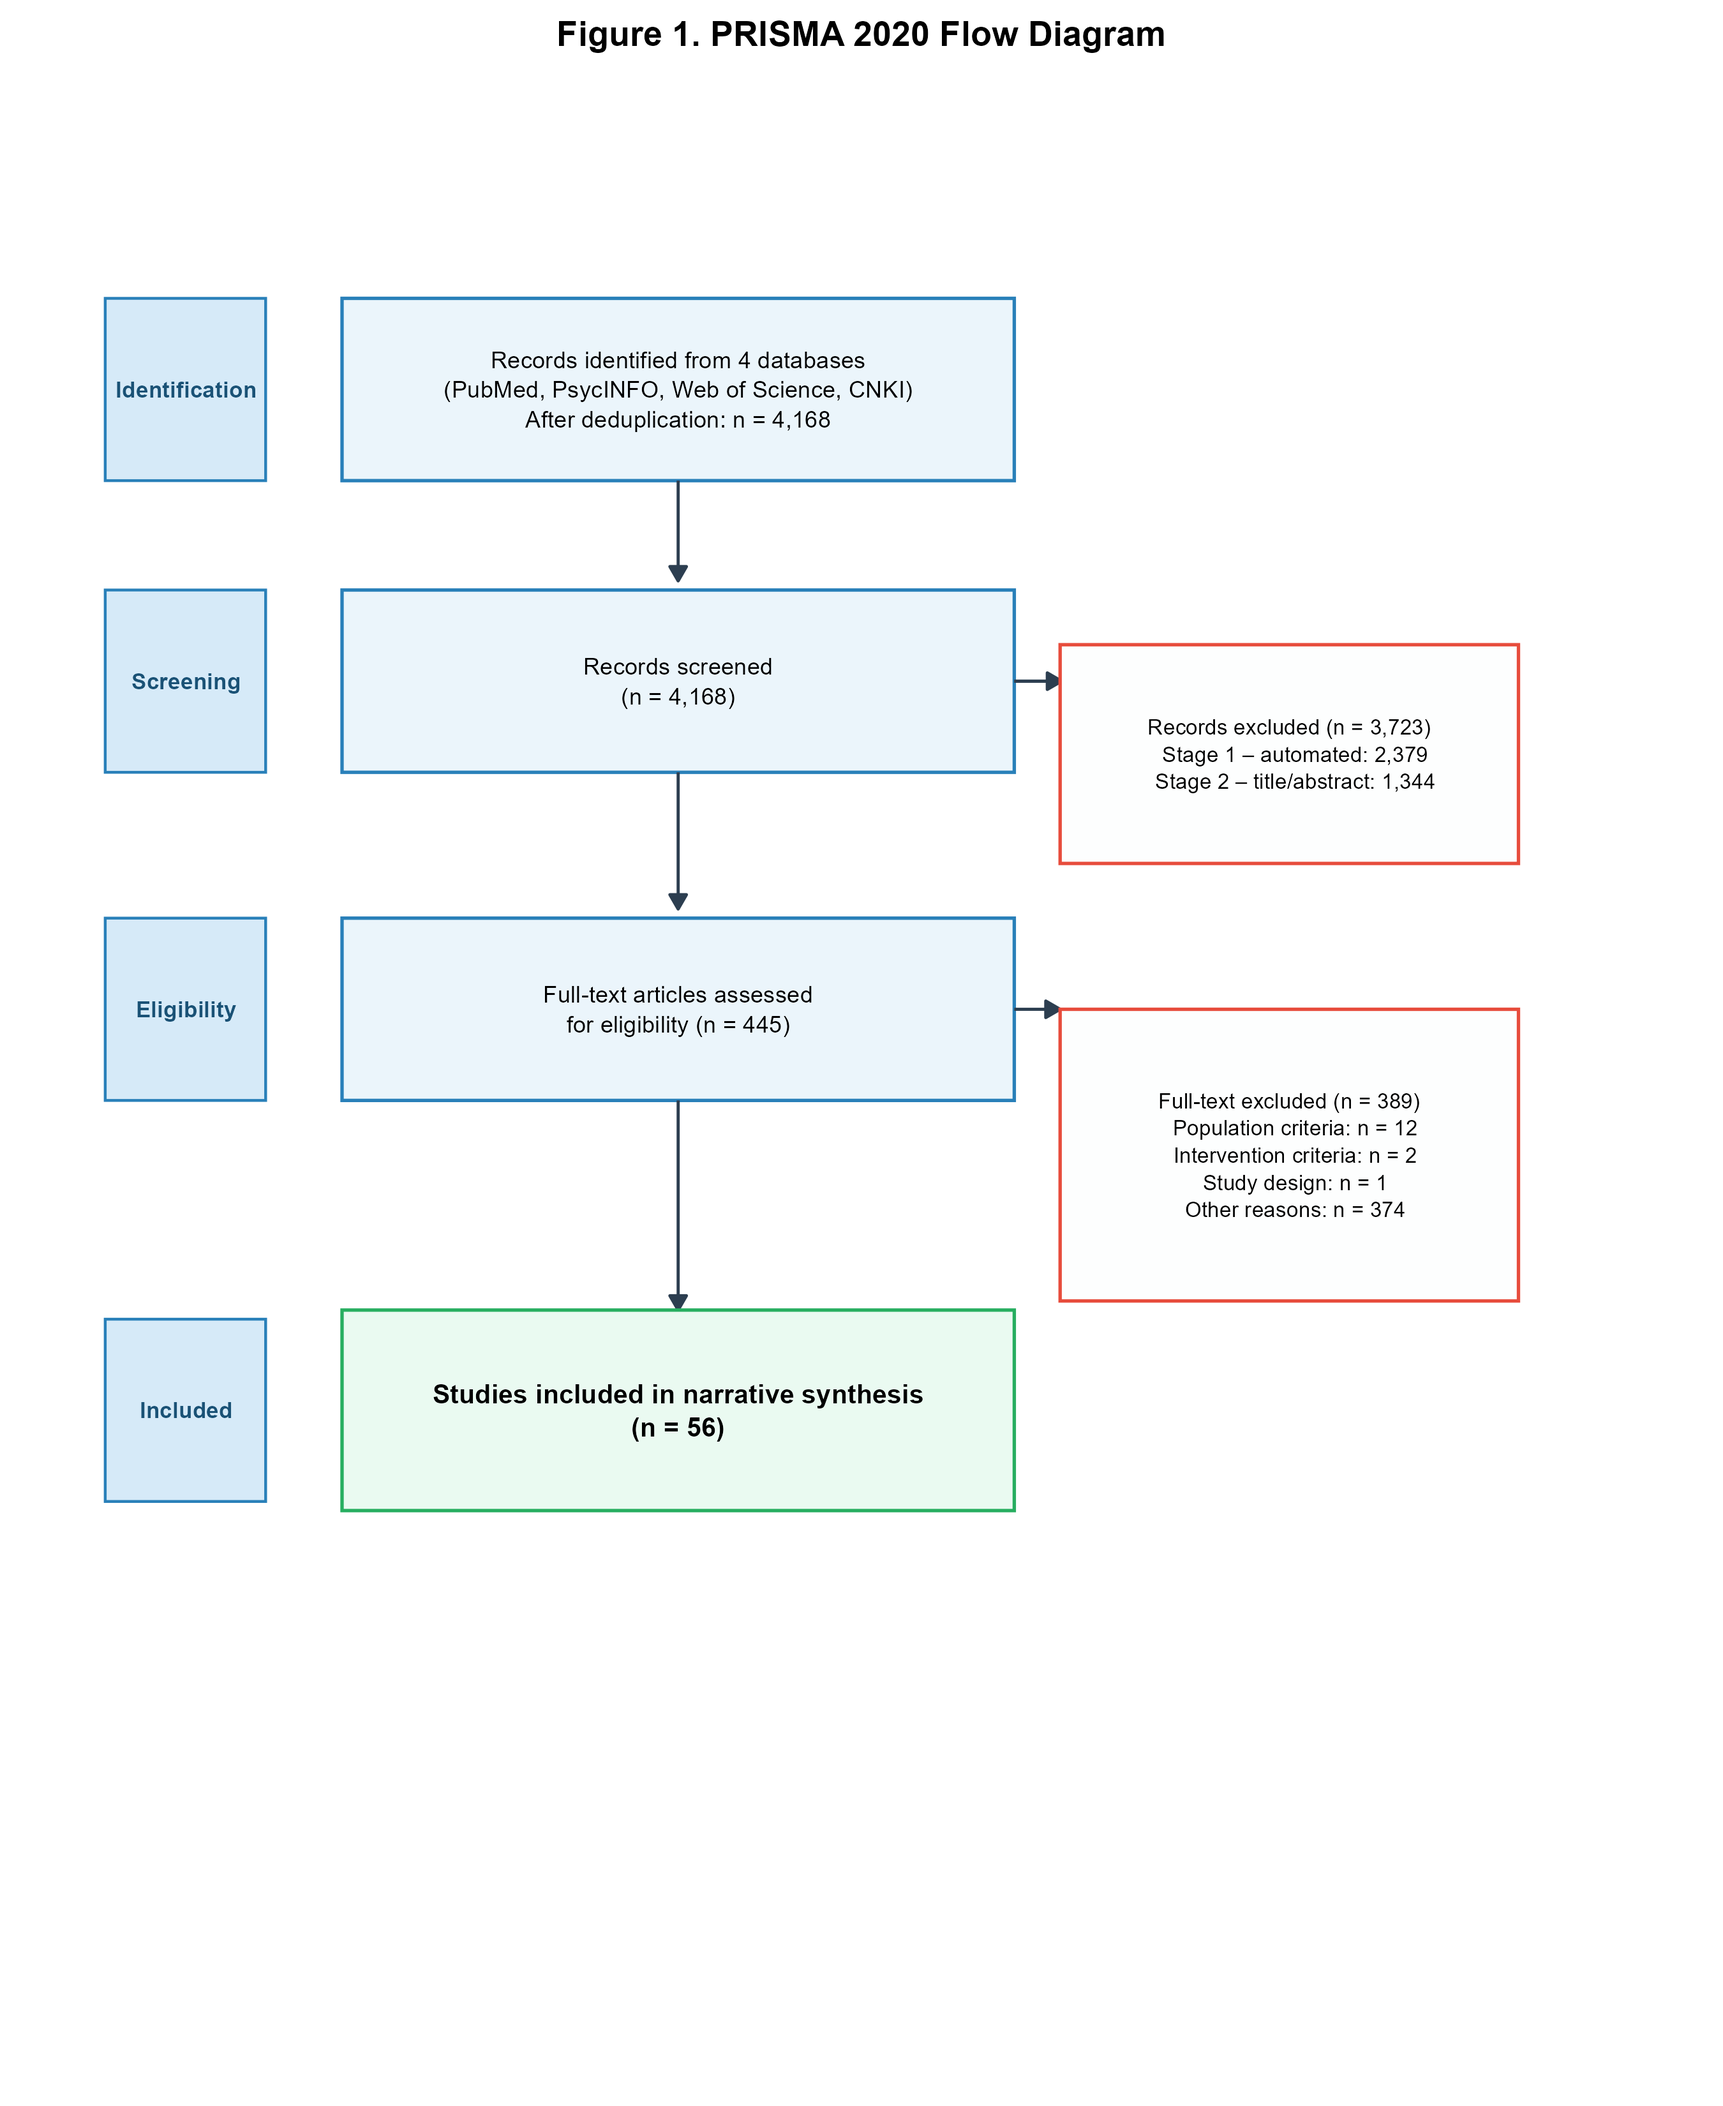
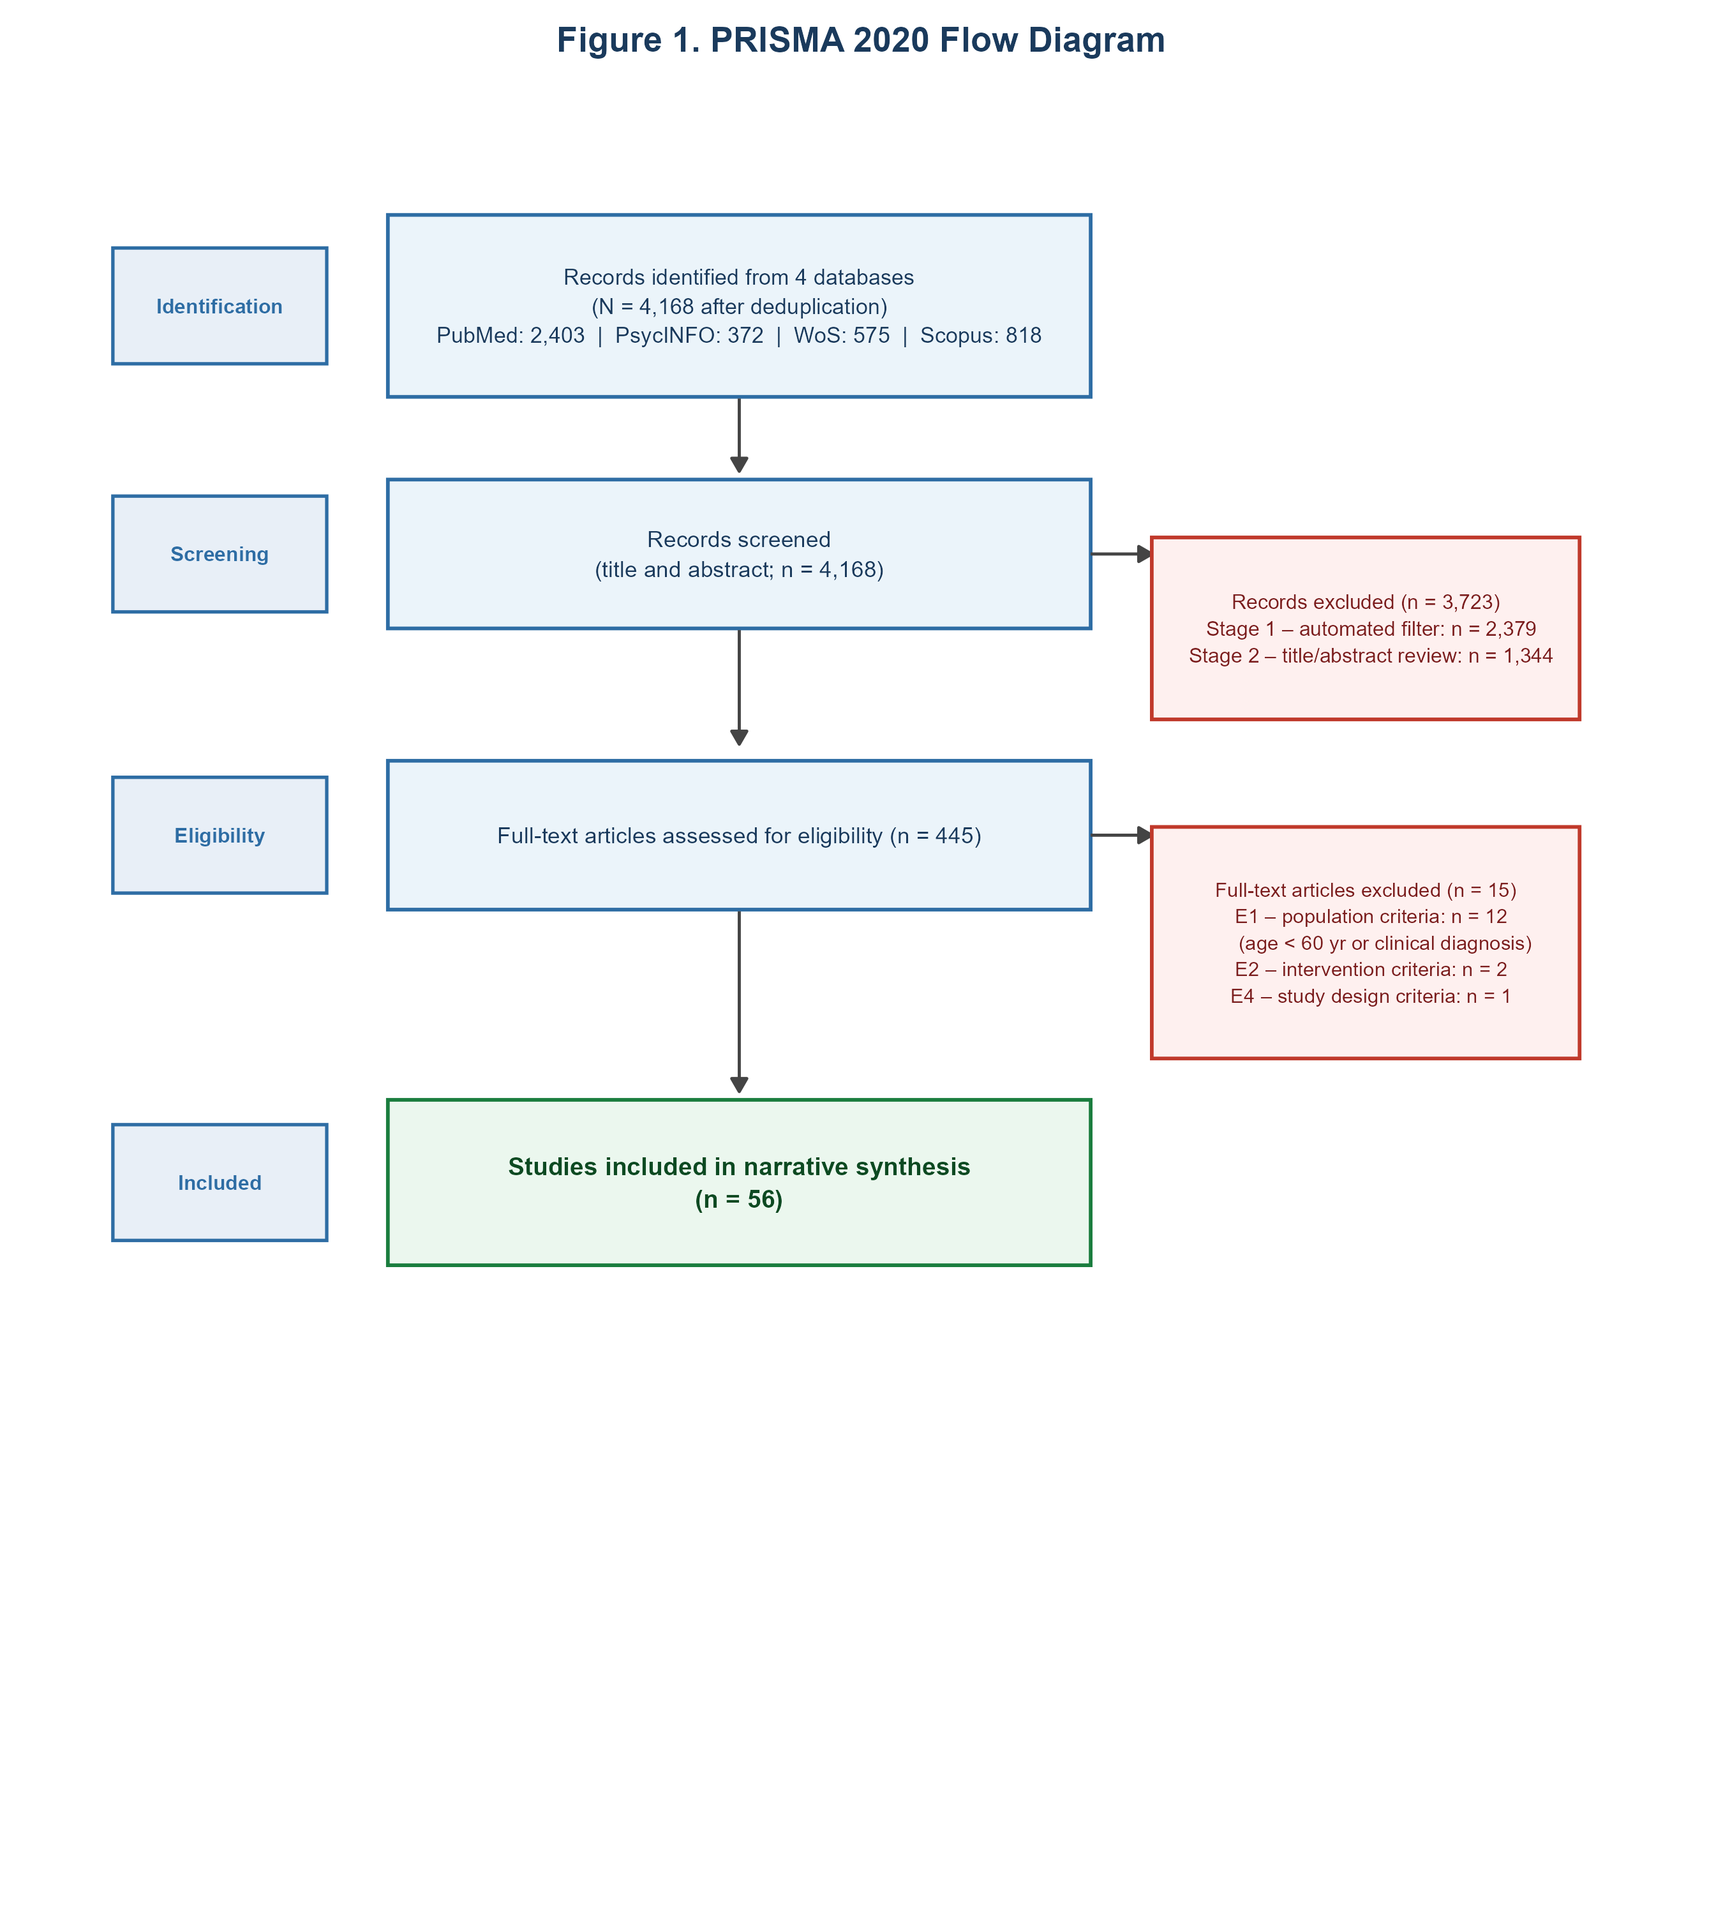
fix(paper-01): figure1最终版——Nature配色+4库实际数量+正确布局；草稿数据库CNKI→Scopus

diff --git a/projects/paper-01/06-write/paper01_draft_v1.md b/projects/paper-01/06-write/paper01_draft_v1.md
@@ -66,7 +66,7 @@ Studies were included if they met all of the following criteria, framed within t
 
 ### 2.3 Search Strategy
 
-We conducted systematic searches in four electronic databases: PubMed/MEDLINE, PsycINFO (via EBSCOhost), Web of Science Core Collection, and CNKI (China National Knowledge Infrastructure). The search was conducted in [month/year; to be confirmed]. No publication date restriction was applied.
+We conducted systematic searches in four electronic databases: PubMed/MEDLINE, PsycINFO (via EBSCOhost), Web of Science Core Collection, and Scopus. The search was conducted in [month/year; to be confirmed]. No publication date restriction was applied.
 
 The search strategy combined terms related to (1) working memory training or cognitive training, (2) older adults or aging, and (3) cognitive outcomes or transfer. An illustrative search string for PubMed was:
 
